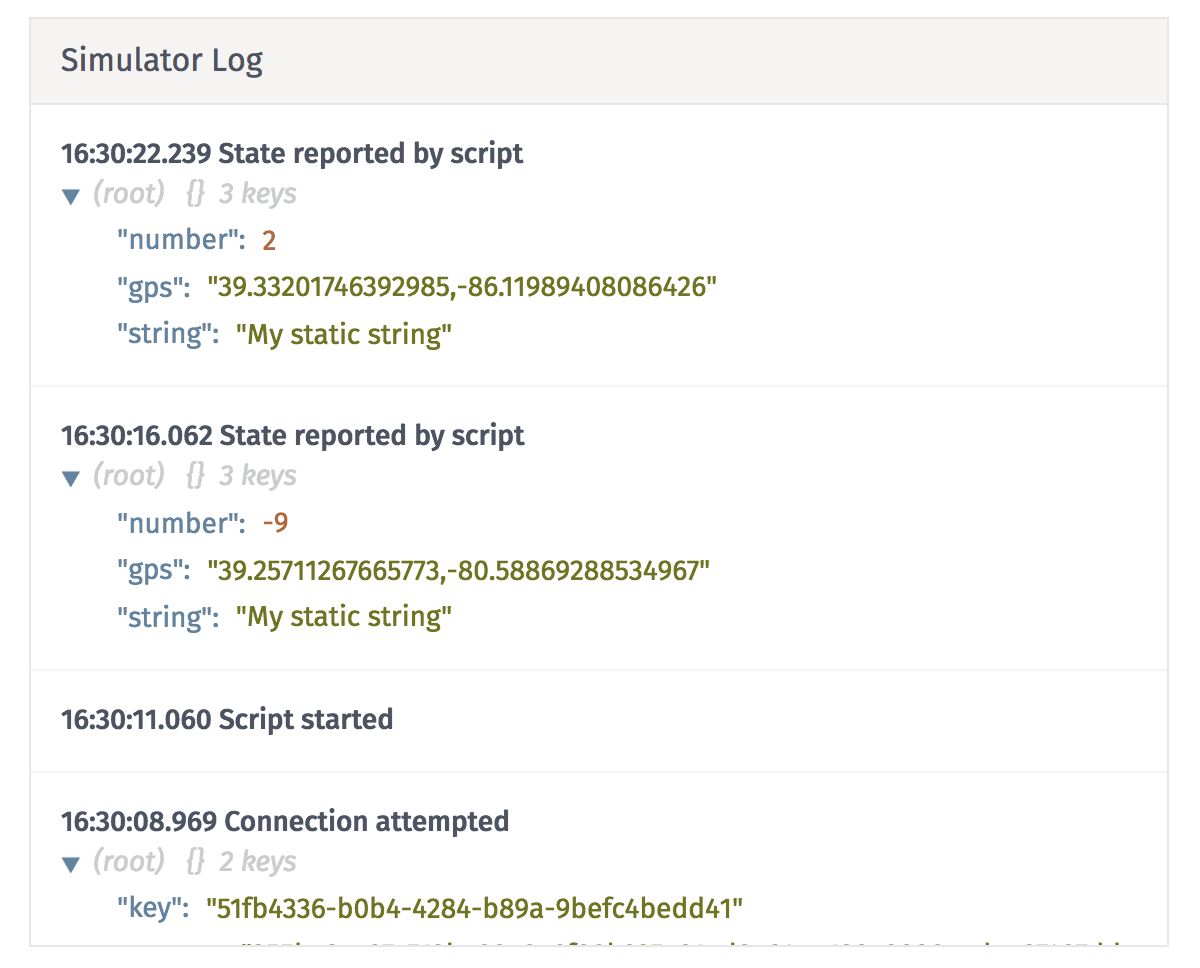
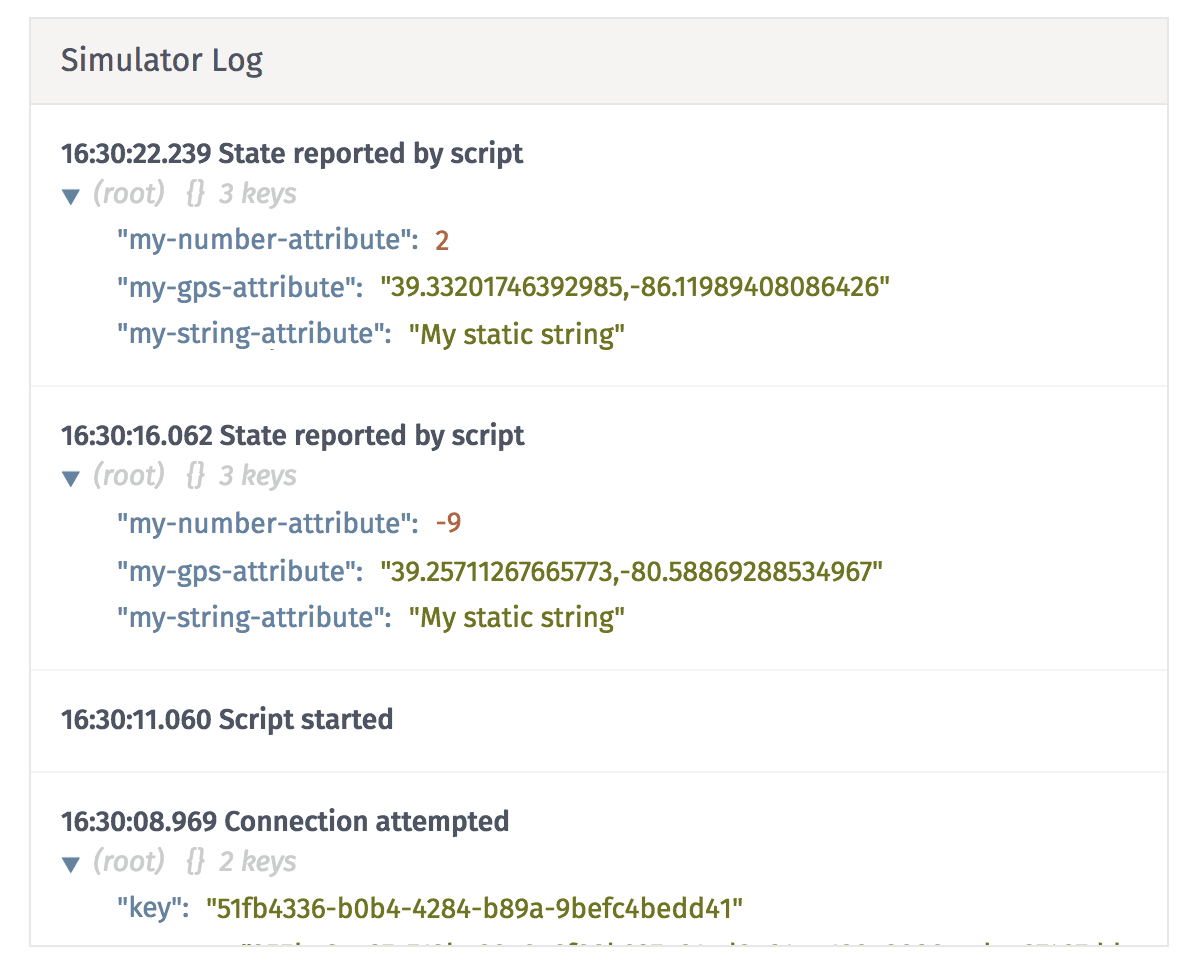
changing attribute names in screenshots + correcting a text error

Changed region(s): [[0.0925, 0.5269, 0.74, 0.6508], [0.0925, 0.2169, 0.74, 0.3719]]

diff --git a/docs/devices/simulator.md b/docs/devices/simulator.md
@@ -10,7 +10,7 @@ The device simulator can be reached from the device's overview page, by clicking
 
 ## Connection Manager
 
-The device simulator works by establishing a connection between [Losant broker](/mqtt/overview/#the-losant-message-broker) and your web browser, authenticating the browser as the device itself. The simulator's connection status is displayed in the connection manager's header.
+The device simulator works by establishing a connection between the [Losant broker](/mqtt/overview/#the-losant-message-broker) and your web browser, authenticating the browser as the device itself. The simulator's connection status is displayed in the connection manager's header.
 
 To get started, paste any [access key and secret](/applications/access-keys/) that is scoped to your device into the connection manager's input fields and click the "Connect" button. If authentication succeeds, the simulator will connect.
 
